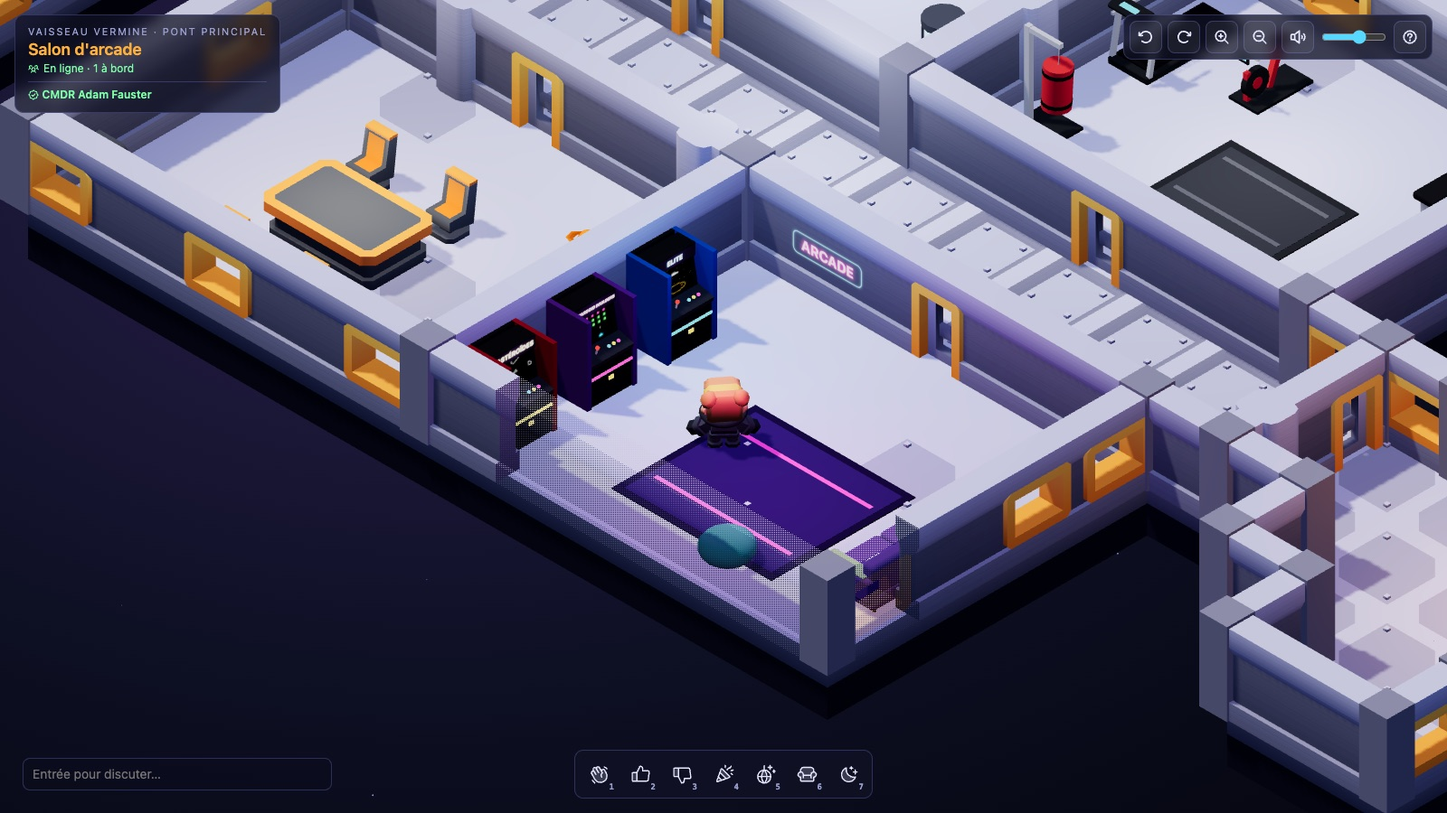
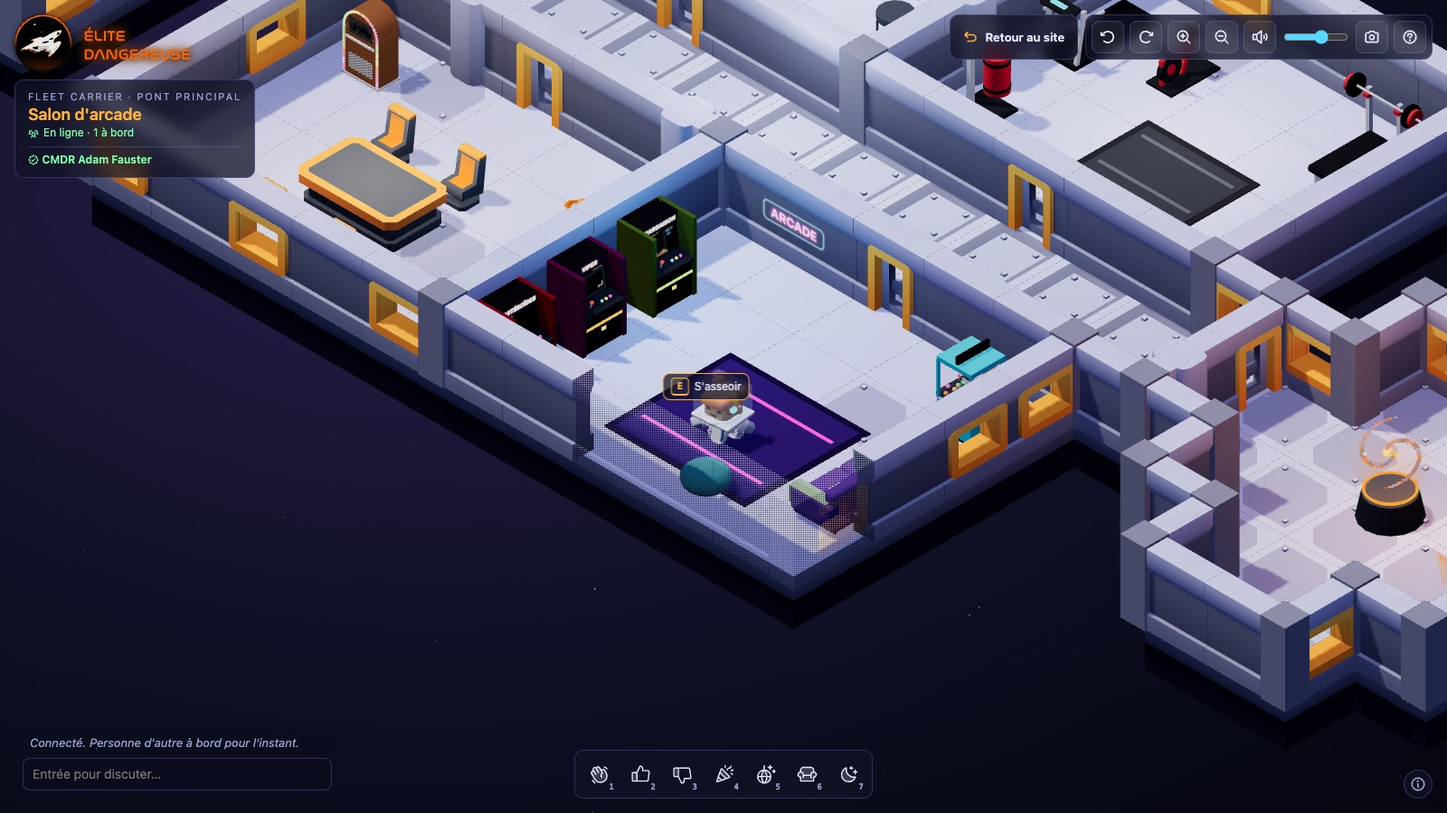
README : s'installer, bornes d'arcade, jukebox et mode photo
Quatre sections, avec leurs captures : les places des meubles et ce qu'on y fait (pince, saut
FSD, danse au tempo) ; les trois jeux des bornes, leurs commandes et les meilleurs scores ; le
jukebox et ses sept morceaux, licences et crédits ; le mode photo et ses options. Le reste suit :
commandes, endpoint des scores, sons, architecture, assets, limites. L'image du salon d'arcade
montre ses nouvelles bornes.

diff --git a/README.md b/README.md
@@ -2,7 +2,7 @@
 
 <p align="center">
   <strong>Un vaisseau spatial isométrique et multijoueur, jouable directement dans le navigateur.</strong><br>
-  Trois ponts à explorer entre CMDR, des quartiers à aménager et où recevoir, un Holo-Me pour changer d'apparence, et Comète, le chat du bord.
+  Trois ponts à explorer entre CMDR, des quartiers à aménager et où recevoir, des bornes d'arcade qui se jouent, un jukebox, un mode photo, un Holo-Me pour changer d'apparence, et Comète, le chat du bord.
 </p>
 
 <p align="center">
@@ -26,6 +26,10 @@
 - [Holo-Me (garde-robe)](#holo-me-garde-robe)
 - [Quartiers personnalisables](#quartiers-personnalisables)
 - [Mobilier fait main](#mobilier-fait-main)
+- [S'installer, jouer, danser](#sinstaller-jouer-danser)
+- [Bornes d'arcade](#bornes-darcade)
+- [Jukebox](#jukebox)
+- [Mode photo](#mode-photo)
 - [Lancer en local](#lancer-en-local)
 - [Commandes](#commandes)
 - [Langues](#langues)
@@ -33,7 +37,7 @@
 - [Sons](#sons)
 - [Choix techniques](#choix-techniques)
 - [Architecture](#architecture)
-- [Assets](#assets-tous-en-cc0--domaine-public-par-kenney)
+- [Assets](#assets-tous-en-cc0-ou-dans-le-domaine-public)
 - [Limites connues / pistes](#limites-connues--pistes)
 
 ## En bref
@@ -45,8 +49,12 @@ Mini Interior est un POC : un vaisseau sur trois ponts, vu de dessus en isométr
 - **Comptes Élite Dangereuse** : un CMDR connecté à [elitedangereuse.fr](https://elitedangereuse.fr) arrive sous son nom, avec un badge « vérifié ».
 - **Holo-Me** : humain, combinaison spatiale, alien, robot ou créature, et chaque changement s'applique en direct.
 - **Quartiers personnalisables** : chaque joueur a sa propre instance des quartiers du commandant. Un CMDR connecté les aménage (93 meubles et objets : lits, plantes, affiches, bornes d'arcade, piste de danse, boule à facettes, tasse de Hutton Orbital…), choisit le papier peint et le sol, et y invite qui il veut.
-- **Des dizaines de meubles animés** : bornes d'arcade jouables, hologrammes, bras robotisé qui soude, aquarium, cheminée…
-- **Son spatialisé** : pas, réacteur, bips des consoles, mélodies d'arcade, ronronnements.
+- **On s'installe** : s'asseoir sur les chaises, les canapés et les fauteuils, se coucher dans les lits (même la couchette du haut), prendre les commandes au poste de pilotage (et lancer un saut FSD), pédaler, courir, frapper le sac, mixer, jouer à la pince à peluches, danser en rythme. Les autres voient la pose.
+- **Arcade** : trois bornes se jouent pour de vrai, Cargaison (un Tetris de conteneurs), Viper (un Snake) et Astéroïdes, avec le tableau des meilleurs scores gardé par le site.
+- **Jukebox** : sept morceaux libres de droits, que tout le pont (ou toute la cabine) entend ensemble ; la piste de danse bat sur leur tempo.
+- **Mode photo** : la scène sans l'interface, jusqu'en 4K, à télécharger.
+- **Des dizaines de meubles animés** : hologrammes, bras robotisé qui soude, aquarium, cheminée, pince à peluches…
+- **Son spatialisé** : pas, réacteur, bips des consoles, mélodies d'arcade, ronronnements, jukebox.
 
 <p align="center">
   <img src="docs/images/equipage.jpg" alt="Deux joueurs dans le salon panoramique : l'un parle dans une bulle, l'autre danse" width="100%">
@@ -62,7 +70,7 @@ On se réveille dans ses quartiers, sur le pont supérieur, à deux pas du Holo-
 | Pont | Ambiance | Pièces |
 |---|---|---|
 | **Pont supérieur** · les quartiers | *cozy* : crème et bois miel, tissus, plantes, lumière chaude, pas feutrés | **quartiers du commandant**, [aménagés par chaque CMDR](#quartiers-personnalisables) (au départ : grand lit, cheminée holographique, canapé, aquarium, bureau, bibliothèque, casier à combinaisons, **Holo-Me**), cabines d'équipage (lits superposés), douches, serre hydroponique, salon panoramique (carte du système), coursive |
-| **Pont principal** | la station d'origine, mobilier aux couleurs d'Elite | poste de pilotage (siège et HOTAS, scanner, panneaux holographiques, carte galactique), salle des machines (centrale, réacteur FSD, tuyères), **infirmerie** (lits médicaux, scanner corporel, quarantaine), **salle de sport**, **salon d'arcade** (trois bornes jouables), mess, coursive |
+| **Pont principal** | la station d'origine, mobilier aux couleurs d'Elite | poste de pilotage (siège et HOTAS, scanner, panneaux holographiques, carte galactique), salle des machines (centrale, réacteur FSD, tuyères), **infirmerie** (lits médicaux, scanner corporel, quarantaine), **salle de sport**, **salon d'arcade** (trois bornes jouables : Cargaison, Viper, Astéroïdes ; une pince à peluches), mess (et son jukebox), coursive |
 | **Cale** | *brute* : acier noirci et rouillé, jaune de chantier, lumière sodium, néons qui grésillent | **atelier** (établis, poste de soudure, établi d'ingénieur, ferraille), **baie de réparation** (SRV Scarab sur pont élévateur, bras robotisé qui soude, AFMU), **raffinerie** (fusion, tapis roulant de minerai, cristaux, drones collecteurs, laser minier), soute, palier de l'ascenseur |
 
 ### Pont supérieur · les quartiers
@@ -80,7 +88,7 @@ On se réveille dans ses quartiers, sur le pont supérieur, à deux pas du Holo-
 <table>
   <tr>
     <td width="50%"><img src="docs/images/cockpit.jpg" alt="Le poste de pilotage : siège, consoles, carte galactique holographique"><br><sub><b>Poste de pilotage</b> : siège et HOTAS, scanner, carte galactique holographique.</sub></td>
-    <td width="50%"><img src="docs/images/arcade.jpg" alt="Le salon d'arcade et ses trois bornes"><br><sub><b>Salon d'arcade</b> : trois bornes jouables (Elite, Invaders, Asteroids) à côté du mess.</sub></td>
+    <td width="50%"><img src="docs/images/arcade.jpg" alt="Le salon d'arcade : trois bornes, la pince à peluches ; le jukebox du mess au fond"><br><sub><b>Salon d'arcade</b> : trois bornes jouables (Cargaison, Viper, Astéroïdes) et une pince à peluches, à côté du mess et de son jukebox.</sub></td>
   </tr>
   <tr>
     <td width="50%"><img src="docs/images/machines.jpg" alt="La salle des machines : réacteur, FSD et tuyères"><br><sub><b>Salle des machines</b> : centrale, réacteur FSD, et les tuyères à la poupe.</sub></td>
@@ -180,6 +188,87 @@ La galerie de debug les montre tous, animés : `/gallery.html?mobilier` (avec `&
 
 Côté performances, chaque meuble est fusionné en deux maillages au plus (couleurs portées par les sommets), puis avec le reste du pont. Un meuble interactif se clique grâce à un volume invisible, qui ne coûte aucun appel de dessin. Les pièces mobiles répétées (contacts du scanner, poissons, étincelles…) sont instanciées. Les consoles racontent le lore d'Elite : Jameson Memorial, Hutton Orbital, Felicity Farseer, les étoiles KGBFOAM…
 
+## S'installer, jouer, danser
+
+<p align="center">
+  <img src="docs/images/assis.jpg" alt="Deux CMDR attablés au mess ; le chat annonce que l'un d'eux a mis un morceau au jukebox" width="100%">
+  <br><em>Au mess : deux CMDR attablés (chacun voit l'autre assis), le jukebox qui joue le morceau choisi par l'un d'eux.</em>
+</p>
+
+Les meubles ont des places (`src/seats.ts`). `E`, ou un clic sur le meuble, y emmène le personnage, qui s'y installe en douceur : il recule sur l'assise, monte sur le lit. Le moindre pas, `E` ou un clic ailleurs le relève. Les autres joueurs voient la pose et sa hauteur ; une place prise n'est pas proposée.
+
+| Meuble | Ce qu'on y fait |
+|---|---|
+| Chaises, fauteuils, canapés (trois places), pouf, banc (des deux côtés), toilettes | s'asseoir |
+| Grand lit (deux places), lits superposés (en haut aussi), lits médicaux, banc de musculation | s'allonger, et dormir (de petits « Zzz ») |
+| Siège du pilote | prendre les commandes ; au poste de pilotage, `Espace` lance un **saut FSD** vers une destination d'Elite (Shinrarta Dezhra, Colonia, Beagle Point…) : charge du réacteur, compte à rebours, étoiles en traînées, secousse, éclair |
+| Vélo, tapis de course, sac de frappe | pédaler, courir, frapper (le sac encaisse chaque coup) |
+| Bornes d'arcade, borne cocktail (à deux), flipper, borne de course | jouer (cf. [Bornes d'arcade](#bornes-darcade)) |
+| Pince à peluches (il y en a une au salon d'arcade) | la caméra passe derrière le joueur ; les flèches déplacent la pince, `Espace` la lâche. Bien visée, elle attrape la Comète assise sur le Thargoïde… qui peut encore glisser en remontant. Les peluches gagnées sont comptées |
+| Platines, piste de danse | mixer, danser |
+
+Une chaise poussée contre la table s'aborde par le côté, un lit contre un mur par l'autre bord (`src/seating.ts`). Le meuble où l'on est installé ne s'estompe pas quand il passe devant le personnage. La danse change de pas tous les deux temps, sur le tempo de la soirée (`src/tempo.ts`) : 120 BPM, ou celui du morceau que joue le jukebox. La piste, la boule à facettes et les lumières battent sur le même tempo.
+
+<p align="center">
+  <img src="docs/images/dodo.jpg" alt="Un CMDR couché dans le grand lit des quartiers, la tête sur l'oreiller" width="100%">
+</p>
+
+La galerie de debug montre chaque meuble avec un personnage à chacune de ses places : `/gallery.html?poses` (`&side` : de profil, `&cam=x,y,z` : d'où l'on regarde, `&pose=lie` : une pose seule, avec une règle graduée).
+
+## Bornes d'arcade
+
+<p align="center">
+  <img src="docs/images/cargaison.jpg" alt="La borne de Cargaison ouverte en grand : la soute, la réserve, les conteneurs suivants, les crédits" width="100%">
+</p>
+
+Trois bornes se jouent (`src/arcade/`). Devant l'une d'elles, `E` ou un clic ouvre la borne en grand : fronton au néon, écran cathodique, pupitre. `Espace` lance la partie, `P` la met en pause, `E` ou `Échap` fait quitter la borne. L'écran titre fait tourner une démonstration, jouée par le pilote automatique du jeu, et alterne avec le tableau des meilleurs scores. Les bornes du vaisseau jouent aussi leur démonstration, record affiché (« HI 012340 »).
+
+| Jeu | Commandes | En bref |
+|---|---|---|
+| **Cargaison** (un Tetris) | `←` `→` déplacer, `↑` tourner, `X` tourner à gauche, `↓` descendre, `Espace` lâcher, `Maj` réserve | des conteneurs de fret s'empilent dans la soute. Sept formes tirées par sacs de sept, rotation SRS et ses décalages contre les parois, réserve, trois suivants, fantôme, verrouillage différé, un niveau tous les dix lignes |
+| **Viper** (un Snake) | flèches | le Viper remorque les conteneurs qu'il ramasse, au bout de son rayon tracteur ; Brandy de Lave doré en bonus, mines à partir du niveau 3 |
+| **Astéroïdes** | `←` `→` tourner, `↑` poussée, `Espace` tirer, `↓` saut FSD d'urgence | en vecteurs lumineux : les roches se brisent, des Thargoïdes traversent en tirant (le petit vise juste), une vie tous les 10 000 points, un saut raté une fois sur douze, et le battement de cœur qui s'accélère |
+
+Sur mobile, une manette tactile s'affiche sous la borne. La borne est chargée à la première partie (~14 ko), et le vaisseau reste figé derrière elle. Les autres jeux (Elite, Thargoid Invaders, le Labyrinthe de Comète, SRV Rally) ne font que leur démonstration ; dans le catalogue du mode aménagement, les jeux jouables viennent en tête, marqués « jouable ».
+
+**Meilleurs scores.** Un CMDR connecté inscrit son score en fin de partie : le site garde le meilleur de chacun, par jeu (cf. [Fonctionnement](#fonctionnement)), et l'écran de fin montre son rang parmi les dix meilleurs. Un invité garde son record dans le navigateur. Les jeux tournent dans le navigateur : le site écarte seulement les scores impossibles (au-delà du plafond du jeu, ou plus de points par seconde que le jeu n'en donne).
+
+## Jukebox
+
+<p align="center">
+  <img src="docs/images/jukebox.jpg" alt="Le panneau du jukebox : les sept morceaux, leur artiste, leur durée et leur ambiance" width="100%">
+</p>
+
+Le jukebox propose sept morceaux libres de droits : celui du mess, au pont principal, et celui qu'on pose dans ses quartiers. On choisit au clavier (`↑` `↓`, `Entrée`) ou à la souris ; un morceau fini, le suivant enchaîne. Le son est spatialisé, et ne s'entend que sur le pont du jukebox. Le relais garde le morceau en cours, et depuis quand il joue, pour le pont principal et pour chaque instance des quartiers : ceux qui arrivent l'entendent au même endroit que les autres (à une seconde près, le temps de charger le morceau).
+
+| Morceau | Artiste | Style | Licence |
+|---|---|---|---|
+| Le Beau Danube bleu (J. Strauss II) | U.S. Marine Band | la valse de l'ordinateur d'amarrage | domaine public |
+| Funky Disco Beats to Boogie/Woogie to | Fupi | disco funk, 110 BPM | CC0 |
+| Day Dreams | HoliznaCC0 | synthwave, 130 BPM | CC0 |
+| Chills | HoliznaCC0 | lo-fi, 96 BPM | CC0 |
+| Ganymede | congusbongus | spacesynth, 118 BPM | CC0 |
+| Interstellar Fleet 1 | Zane Little Music | chiptune, 130 BPM | CC0 |
+| Two Left Socks | congusbongus | bossa lounge, 135 BPM | CC0 |
+
+Les MP3 (18 Mo en tout, tous au même volume, -16 LUFS) ne sont chargés qu'à la demande. Leurs sources, la preuve de chaque licence et les montages sont dans `public/assets/music/CREDITS.txt`. Les platines, elles, gardent leurs quelques mesures de disco synthétisées.
+
+## Mode photo
+
+<p align="center">
+  <img src="docs/images/mode-photo.jpg" alt="Le mode photo : l'interface a disparu, la barre du mode photo en bas, l'aperçu de la photo prise à droite" width="100%">
+</p>
+
+`P`, ou l'appareil photo de la barre du haut, efface l'interface. On cadre à la caméra libre (plus près et plus loin qu'en jeu), on prend la pose avec les emotes, puis `Espace` déclenche. La photo ne garde que la scène, rendue jusqu'en 4K (12 mégapixels au plus) sur le fond du jeu. L'aperçu propose de la télécharger (JPEG) ou de la copier, et les douze dernières de la séance restent dans la pellicule.
+
+| Option | Touche |
+|---|---|
+| Noms des CMDR (dessinés dans la photo, badge vérifié compris) | `N` |
+| Cacher son personnage | `C` |
+| Figer l'instant (personnages, meubles, étoiles ; la caméra bouge toujours) | `F` |
+| Grille des tiers, pour cadrer (jamais dans la photo) | `G` |
+| Sortir | `Échap` ou `P` |
+
 ## Lancer en local
 
 Prérequis : Node 20 ou plus.
@@ -187,7 +276,7 @@ Prérequis : Node 20 ou plus.
 ```bash
 npm install
 npm run dev        # http://localhost:5173 — jeu + relais multijoueur
-npm test           # tests du relais (identité, origine, rediffusion, quartiers)
+npm test           # tests du relais (identité, origine, rediffusion, poses, jukebox, quartiers)
 ```
 
 Pour tester le multijoueur, ouvre deux onglets (ou un onglet et un autre navigateur). Chaque onglet est un membre d'équipage.
@@ -201,7 +290,7 @@ npm start          # http://localhost:8080 (variable PORT pour changer)
 
 Sans `dist/`, `npm start` ne fait que le relais : c'est le cas sur elitedangereuse.fr, où le site sert lui-même le jeu. Le contenu de `dist/` peut aussi être déposé sur un hébergement purement statique. Dans ce cas, le jeu fonctionne en **solo** : sans relais, le chat reste local.
 
-Une page de debug, `/gallery.html`, affiche chaque modèle du kit avec son nom et son orientation d'origine (`?only=wall,floor&zoom=4&cols=4&back`), ou le mobilier fait main avec `?mobilier`. En dev, `window.__game` expose quelques fonctions (`goTo`, `ride`, `emote`, `say`…).
+Une page de debug, `/gallery.html`, affiche chaque modèle du kit avec son nom et son orientation d'origine (`?only=wall,floor&zoom=4&cols=4&back`), ou le mobilier fait main avec `?mobilier` (`?poses` : les places des meubles). En dev, `window.__game` expose quelques fonctions (`goTo`, `ride`, `emote`, `say`, `sitOn`…).
 
 ## Commandes
 
@@ -209,7 +298,11 @@ Une page de debug, `/gallery.html`, affiche chaque modèle du kit avec son nom e
 |---|---|
 | Se déplacer | `ZQSD` (AZERTY), `WASD` (QWERTY), flèches, ou clic sur le sol (pathfinding) |
 | Courir | `Maj` |
-| Interagir | `E` ou `Espace` près d'un objet, ou clic sur l'objet (le perso y va tout seul) |
+| Interagir | `E` ou `Espace` près d'un objet, ou clic sur l'objet (le perso y va tout seul) ; sur un meuble où l'on s'installe (chaise, lit, borne…), le personnage y prend place, et le moindre pas, `E` ou un clic ailleurs le relève |
+| Installé | `Espace` : saut FSD (siège du poste de pilotage), lâcher la pince (pince à peluches, que les flèches déplacent) |
+| Bornes d'arcade | `Espace` jouer, `P` pause, `E` ou `Échap` quitter ; les commandes de chaque jeu sont sur le pupitre (cf. [Bornes d'arcade](#bornes-darcade)) |
+| Jukebox | `↑` `↓` choisir, `Entrée` jouer ; `E`, `Échap` ou un clic en dehors pour fermer |
+| Mode photo | `P` ou l'appareil photo en haut à droite ; `Espace` photo, `N` noms, `C` cacher son personnage, `F` figer, `G` grille, `Échap` sortir |
 | Changer de pont | interagir avec l'ascenseur (la plateforme cyan surmontée d'un panneau ▲▼, dans la coursive ou sur le palier), puis `↑` `↓` pour choisir l'étage et `Entrée` pour y aller, ou un clic ; `E`, `Échap` ou un clic en dehors pour fermer |
 | Emotes | `1`…`7` ou la barre en bas : salut, oui, non, joie, danse, assis, dodo |
 | Chat | `Entrée`, puis `Entrée` pour envoyer, `Échap` pour annuler |
@@ -248,13 +341,15 @@ Les **quartiers aménagés** passent par un second endpoint, `outils/mini-shipin
 
 Tant que le site n'a pas répondu, les quartiers ne s'aménagent pas : on écraserait ceux qu'il garde. S'il ne répond pas du tout, l'aménagement est gardé dans le navigateur, daté ; un envoi en échec y laisse aussi une copie, et il est réessayé. À la réponse suivante du site, cette copie l'emporte si elle est plus récente, et lui est envoyée. Chaque page du jeu numérote ses envois : un envoi plus ancien arrivé en retard (page fermée en plein enregistrement) n'écrase pas le plus récent.
 
+Les **meilleurs scores** des bornes d'arcade passent par un troisième endpoint, `outils/mini-shipinteriors-scores.php` : `GET ?game=cargo` rend les dix meilleurs et le rang du CMDR connecté, `GET` sans jeu le record de chaque jeu (pour les écrans des bornes), `POST` inscrit une partie (table `mini_shipinteriors_score`, le meilleur score de chaque CMDR à chaque jeu, et son nombre de parties). Lire est ouvert à tous ; inscrire est réservé aux CMDR, doit venir du site (en-tête `Origin`) et s'espace de 3 s. Le site écarte les scores impossibles (au-delà du plafond du jeu, ou plus de points par seconde que le jeu n'en donne).
+
 Les demandes de compte et de quartiers partent dès le chargement de la page, pendant celui des modèles, et on ne les attend au plus que 3 s une fois les modèles chargés.
 
 Le cookie du site n'est pas `SameSite` : le relais n'accepte que les connexions de la même origine (en-tête `Origin` comparé au `Host`). Sinon, une page d'un autre site pourrait ouvrir une socket avec le cookie d'un visiteur et parler en son nom.
 
 ### Mise en production
 
-Le jeu est un sous-module du repo `elitedangereuselight`, dans `outils/mini-shipinteriors`. Ce repo contient les endpoints, la table des quartiers (`docker/tables/mini_shipinteriors.sql`, à jouer une fois en prod), la conf nginx (`scripts/nginx/mini-shipinteriors-*.conf`), et ses scripts de déploiement envoient le jeu construit et le relais (cf. son README).
+Le jeu est un sous-module du repo `elitedangereuselight`, dans `outils/mini-shipinteriors`. Ce repo contient les endpoints, les tables des quartiers et des scores (`docker/tables/mini_shipinteriors.sql`, à jouer en prod, idempotent), la conf nginx (`scripts/nginx/mini-shipinteriors-*.conf`), et ses scripts de déploiement envoient le jeu construit et le relais (cf. son README).
 
 `dependencies` ne contient que ce que le relais charge (socket.io) : le client (three, icônes, socket.io-client) est intégré au build par Vite, d'où `devDependencies`.
 
@@ -267,7 +362,7 @@ Le relais : `npm ci --omit=dev && npm start`, avec ces variables :
 | `LOG_LABEL` | étiquette ajoutée à chaque ligne de log, horodatée (ex. `prod`, `preprod`). Les erreurs (site injoignable, plantage) vont sur la sortie d'erreur, le reste (arrivées, départs) sur la sortie standard |
 | `WS_PATH` | chemin de la socket (défaut `/ws/mini-shipinteriors`). S'il change, rebâtir le client avec `VITE_WS_PATH` et adapter nginx |
 
-Au build : `VITE_WS_PATH` (chemin de la socket), `VITE_ED_CMDR_URL` (endpoint du compte, défaut `/outils/mini-shipinteriors-cmdr.php`) et `VITE_ED_CABIN_URL` (endpoint des quartiers, défaut `/outils/mini-shipinteriors-cabin.php`).
+Au build : `VITE_WS_PATH` (chemin de la socket), `VITE_ED_CMDR_URL` (endpoint du compte, défaut `/outils/mini-shipinteriors-cmdr.php`) `VITE_ED_CABIN_URL` (endpoint des quartiers, défaut `/outils/mini-shipinteriors-cabin.php`) et `VITE_ED_SCORES_URL` (endpoint des scores, défaut `/outils/mini-shipinteriors-scores.php`).
 
 Sans `ED_CMDR_URL`, ou si le site ne répond pas, le jeu fonctionne quand même : tout le monde est invité.
 
@@ -286,9 +381,11 @@ Tous les sons sont spatialisés (HRTF), avec l'auditeur au-dessus du joueur, ori
 - « bip bip » aléatoires et bruits d'ordinateur autour des consoles du cockpit ;
 - mélodies des bornes d'arcade, crépitements de soudure dans la cale, grondement de la raffinerie (qu'on n'entend que dans la cale) ;
 - pas feutrés sur les sols des quartiers ;
-- portes coulissantes, ascenseur, notifications du chat.
+- portes coulissantes, ascenseur, notifications du chat ;
+- le jukebox (cf. [Jukebox](#jukebox)), qu'on n'entend que sur son pont ;
+- coups dans le sac, moteur et jingles de la pince, charge et saut du FSD, déclencheur du mode photo.
 
-Les bips, les mélodies d'arcade, les étincelles, le miaulement et le ronronnement sont synthétisés en direct (Web Audio), le reste vient des packs audio de Kenney.
+Les bips, les mélodies d'arcade, les étincelles, le miaulement, le ronronnement et tous les bruitages des bornes (tirs, explosions, lignes, battement de cœur d'Astéroïdes) sont synthétisés en direct (Web Audio). Le reste vient des packs audio de Kenney, et la musique du jukebox de ses auteurs.
 
 ## Choix techniques
 
@@ -296,7 +393,7 @@ Les bips, les mélodies d'arcade, les étincelles, le miaulement et le ronronnem
 - **Performances.** Les packs Kenney sont entièrement mats, donc ils sont rendus en **Lambert** au lieu du PBR : même aspect, bien moins de calcul par pixel. Toute la géométrie immobile d'un pont (sols, coque, murs, poteaux, meubles) est fusionnée en quelques maillages : on fait **~105 appels de dessin par image sur le pont principal (ombres comprises), au lieu de ~420**. Les meubles des quartiers sont fusionnés à part, et refusionnés à chaque changement d'aménagement (un meuble déplacé n'est pas reconstruit) : ~6 appels de dessin de plus sur le pont supérieur, 2 de plus avec des revêtements (qui se redessinent sur place, sans refusion), et un par pièce animée (écrans, platines, dalles de la piste…). Les murs à rendre transparents devant le joueur restent individualisables grâce à un index par sommet et une petite texture de fondu. Les étoiles sont animées entièrement dans le GPU. Une réserve de 8 lumières ponctuelles, de taille fixe, évite toute recompilation de shader, et tous les shaders sont compilés avant la première image. La densité de pixels démarre à 1,5. Elle baisse si l'image passe sous ~50 i/s, et remonte jusqu'à 2 s'il reste de la marge. Le survol à la souris est traité une fois par image, et la boucle n'alloue presque plus rien (moins de pauses du ramasse-miettes).
 - **Anti-clignotement.** Le fondu des murs est **tramé** (matrice de Bayer) au lieu d'être en vraie transparence. Il n'y a donc plus de tri d'objets transparents ni de bascule opaque/transparent. Les **poteaux d'angle** sont un peu plus larges et plus hauts que les murs : les dessus de murs qui se chevauchaient au même niveau causaient un z-fighting en dents de scie. L'ombre du soleil est fixe et couvre tout le vaisseau, elle ne « nage » plus quand la caméra bouge. Enfin, les faces confondues (panneaux de portes, dalles au sol) ont été décalées.
 - **Multijoueur.** Un relais socket.io minimal (`server/relay.js`) reçoit positions, messages et emotes, les valide et les rediffuse. socket.io apporte la reconnexion automatique et le repli en long polling quand le WebSocket ne passe pas. Le relais est branché sur le serveur de dev de Vite et sur `server/index.js` en production. Ce n'est pas un serveur qui fait autorité : pour un POC, chaque client fait confiance aux autres. Comète (l'animal) est simulé séparément sur chaque client. Pour les quartiers, en revanche, le relais tranche : il garde l'aménagement de chaque CMDR vérifié (forme vérifiée par `server/cabin.js`), n'ouvre des quartiers que sur invitation, transmet leurs changements aux seuls visiteurs, et renvoie ceux-ci chez eux quand leur hôte part. Chaque joueur porte l'instance des quartiers où il se trouve (`cabin`, l'id de son hôte) ; chaque client en déduit qui il voit.
-- **Chargement à la demande.** Le mode aménagement (éditeur, règles de pose, vignettes du catalogue, ~25 ko) n'est téléchargé qu'à sa première ouverture. Les vignettes sont rendues à la demande dans un petit contexte WebGL hors écran, libéré une fois la file vidée.
+- **Chargement à la demande.** Le mode aménagement (éditeur, règles de pose, vignettes du catalogue, ~25 ko) n'est téléchargé qu'à sa première ouverture, la borne d'arcade en grand (~14 ko) à la première partie, un morceau du jukebox quand il joue. Les vignettes sont rendues à la demande dans un petit contexte WebGL hors écran, libéré une fois la file vidée.
 
 ## Architecture
 
@@ -307,7 +404,12 @@ Les bips, les mélodies d'arcade, les étincelles, le miaulement et le ronronnem
 | `src/deck.ts` · `src/merge.ts` | Construit un pont : sols, murs sur les arêtes, hublots, poteaux, portes automatiques, meubles, ascenseur, réacteur, tuyères. Fusion de géométrie et fondu tramé (`merge.ts`, partagé avec les quartiers). |
 | `src/cabin/` | **Quartiers personnalisables** : catalogue des objets (`catalog.ts`), revêtements des murs et du sol (`finishes.ts`), aménagement et sa normalisation (`layout.ts`), construction et fusion dans le pont (`view.ts`), règles de pose (`rules.ts`), mode aménagement (`editor.ts`), vignettes (`thumbs.ts`), barre des quartiers et invitations (`hud.ts`), enregistrement sur le site (`storage.ts`). |
 | `src/fade.ts` | Shaders de transparence tramée (par objet ou indexée pour la géométrie fusionnée). |
-| `src/avatar.ts` | Personnage animé : locomotion, emotes. Partagé par le joueur local et les joueurs distants. |
+| `src/avatar.ts` | Personnage animé : locomotion, emotes, poses sur les meubles, danse au tempo. Partagé par le joueur local et les joueurs distants. |
+| `src/seats.ts` · `src/seating.ts` | Les places de chaque meuble (pose, hauteur, orientation) ; s'y installer (choix d'une place libre, abord, trajet) et s'en relever. |
+| `src/tempo.ts` | Tempo de la soirée, que suivent la piste de danse, les lumières et les danseurs, calé sur le morceau du jukebox. |
+| `src/arcade/` | **Bornes d'arcade** : les jeux et leur pilote automatique (`cargo.ts`, `viper.ts`, `asteroids.ts`), socle et police pixel (`game.ts`), la borne en grand (`cabinet.ts`), bruitages (`sfx.ts`), meilleurs scores (`scores.ts`). |
+| `src/music.ts` | Le jukebox : ses morceaux, leur lecture spatialisée, son panneau. |
+| `src/photo.ts` | Le mode photo : options, prise de vue en haute définition, aperçu, pellicule. |
 | `src/looks.ts` | Catalogue des apparences (espèces, sexe, modèles, teintes, combinaisons) et fabrication des modèles correspondants (casques, sacs dorsaux). |
 | `src/furniture/` | Mobilier fait main, par zone (`elite`, `workshop`, `leisure`, `cozy`, `decor`), et sa boîte à outils commune (`kit.ts` : fusion, instanciation, hologrammes, écrans animés). |
 | `src/recolor.ts` | Recoloration de texture pixel par pixel (aliens, combinaisons, mobilier repeint). |
@@ -316,7 +418,7 @@ Les bips, les mélodies d'arcade, les étincelles, le miaulement et le ronronnem
 | `src/remote.ts` | Joueurs distants : interpolation, animations et emotes rejouées. |
 | `src/cat.ts` | Comète, le chat (petite machine à états). |
 | `src/audio.ts` | Sons spatialisés ; bips, mélodies d'arcade, étincelles, miaulement et ronronnement synthétisés. |
-| `src/net.ts` · `server/` | Client et relais multijoueur (socket.io), reconnaissance du CMDR par le site (`server/cmdr.js`), aménagements des quartiers (`server/cabin.js`), serveur de production, tests (`server/relay.test.js`). |
+| `src/net.ts` · `server/` | Client et relais multijoueur (socket.io) : positions et poses, chat, emotes, jukebox ; reconnaissance du CMDR par le site (`server/cmdr.js`), aménagements des quartiers (`server/cabin.js`), serveur de production, tests (`server/relay.test.js`). |
 | `src/cmdr.ts` | Identité : CMDR connecté au site, noms d'invités tirés de la SF. |
 | `src/ui.ts` | Bulles au-dessus des têtes, chat, panneaux d'ascenseur et du Holo-Me, dialogues. |
 | `src/i18n.ts` | Langue du jeu (celle du site) et `tr()`, cf. [Langues](#langues). |
@@ -325,7 +427,9 @@ Les bips, les mélodies d'arcade, les étincelles, le miaulement et le ronronnem
 | `src/main.ts` | Assemblage, entrées, boucle de jeu. |
 | `docs/images/` | Captures d'écran de ce README. |
 
-## Assets (tous en CC0 / domaine public, par [Kenney](https://www.kenney.nl))
+## Assets (tous en CC0 ou dans le domaine public)
+
+Modèles et sons par [Kenney](https://www.kenney.nl) :
 
 - [Space Station Kit](https://kenney.nl/assets/space-station-kit) — `public/assets/station/`
 - [Mini Characters](https://kenney.nl/assets/mini-characters) — `public/assets/characters/` (12 personnages, ~30 animations)
@@ -333,6 +437,8 @@ Les bips, les mélodies d'arcade, les étincelles, le miaulement et le ronronnem
 - [Mini Dungeon](https://kenney.nl/assets/mini-dungeon) — `public/assets/creatures/` (orque)
 - [Cube Pets](https://kenney.nl/assets/cube-pets) — `public/assets/pets/` (le chat)
 - [Impact Sounds](https://kenney.nl/assets/impact-sounds), [Sci-fi Sounds](https://kenney.nl/assets/sci-fi-sounds), [Interface Sounds](https://kenney.nl/assets/interface-sounds) — `public/assets/sounds/`
+
+Musiques du jukebox, `public/assets/music/` (détail dans `CREDITS.txt`) : Le Beau Danube bleu par l'[U.S. Marine Band](https://commons.wikimedia.org/wiki/File:%22An_der_sch%C3%B6nen,_blauen_Donau%22_performed_by_the_U.S._Marine_Band.flac) (domaine public) ; en CC0 sur OpenGameArt, [Fupi](https://opengameart.org/content/funky-disco-beats-to-boogiewoogie-to), [HoliznaCC0](https://opengameart.org/content/retro-wave-collection) ([Chills](https://opengameart.org/content/chills)), [congusbongus](https://opengameart.org/content/ganymede) ([Two Left Socks](https://opengameart.org/content/two-left-socks)) et [Zane Little Music](https://opengameart.org/content/interstellar-fleet-1).
 
 Les licences d'origine sont copiées à côté des fichiers.
 
@@ -344,7 +450,9 @@ Les icônes de l'interface viennent de [Phosphor Icons](https://phosphoricons.co
 - Deux onglets d'un même CMDR aménagent les mêmes quartiers : le dernier enregistrement l'emporte, et l'autre onglet ne voit le changement qu'au rechargement.
 - Une visite ne survit pas à une reconnexion au relais : le visiteur rentre chez lui.
 - Le suffixe « (invité) » que le relais ajoute au nom d'un invité homonyme d'un CMDR présent reste en français, dans les deux langues.
-- Les sons sont en Ogg Vorbis : c'est parfait sur Chrome et Firefox, mais un ancien Safari peut rester muet. Une conversion en `.m4a` réglerait ça.
-- Pistes : pseudo et choix du personnage dans un écran d'accueil, PNJ d'équipage avec routines, escaliers du kit en plus de l'ascenseur, plans édités dans [Tiled](https://www.mapeditor.org/), s'asseoir sur les canapés et fauteuils des quartiers, objets gagnés en jeu à ajouter au catalogue.
+- Les sons sont en Ogg Vorbis : c'est parfait sur Chrome et Firefox, mais un ancien Safari peut rester muet. Une conversion en `.m4a` réglerait ça (la musique du jukebox, elle, est en MP3).
+- Les scores des bornes sont calculés dans le navigateur : le site écarte l'impossible, pas la triche fine. Un score suspect se retrouve au nom de son CMDR (et se retire en base).
+- Une partie de borne ou de pince ne se voit que chez celui qui joue : les autres le voient à la borne, qui fait sa démonstration.
+- Pistes : pseudo et choix du personnage dans un écran d'accueil, PNJ d'équipage avec routines, escaliers du kit en plus de l'ascenseur, plans édités dans [Tiled](https://www.mapeditor.org/), objets gagnés en jeu à ajouter au catalogue (la peluche de Comète gagnée à la pince…), parties d'arcade à deux sur la borne cocktail.
 
 <p align="center"><sub>o7, CMDR.</sub></p>
